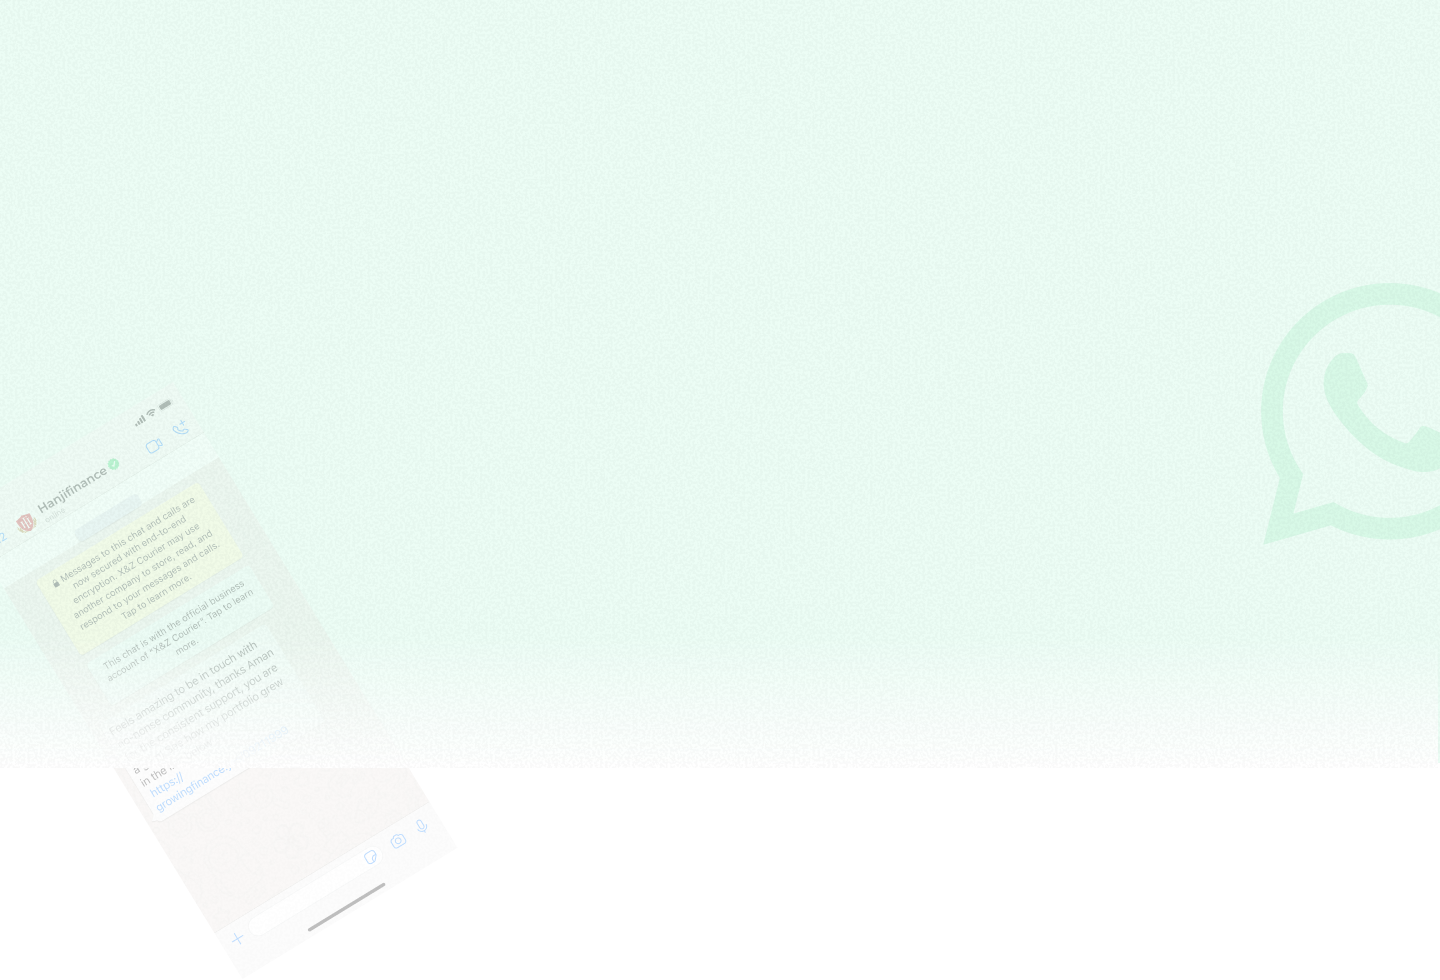
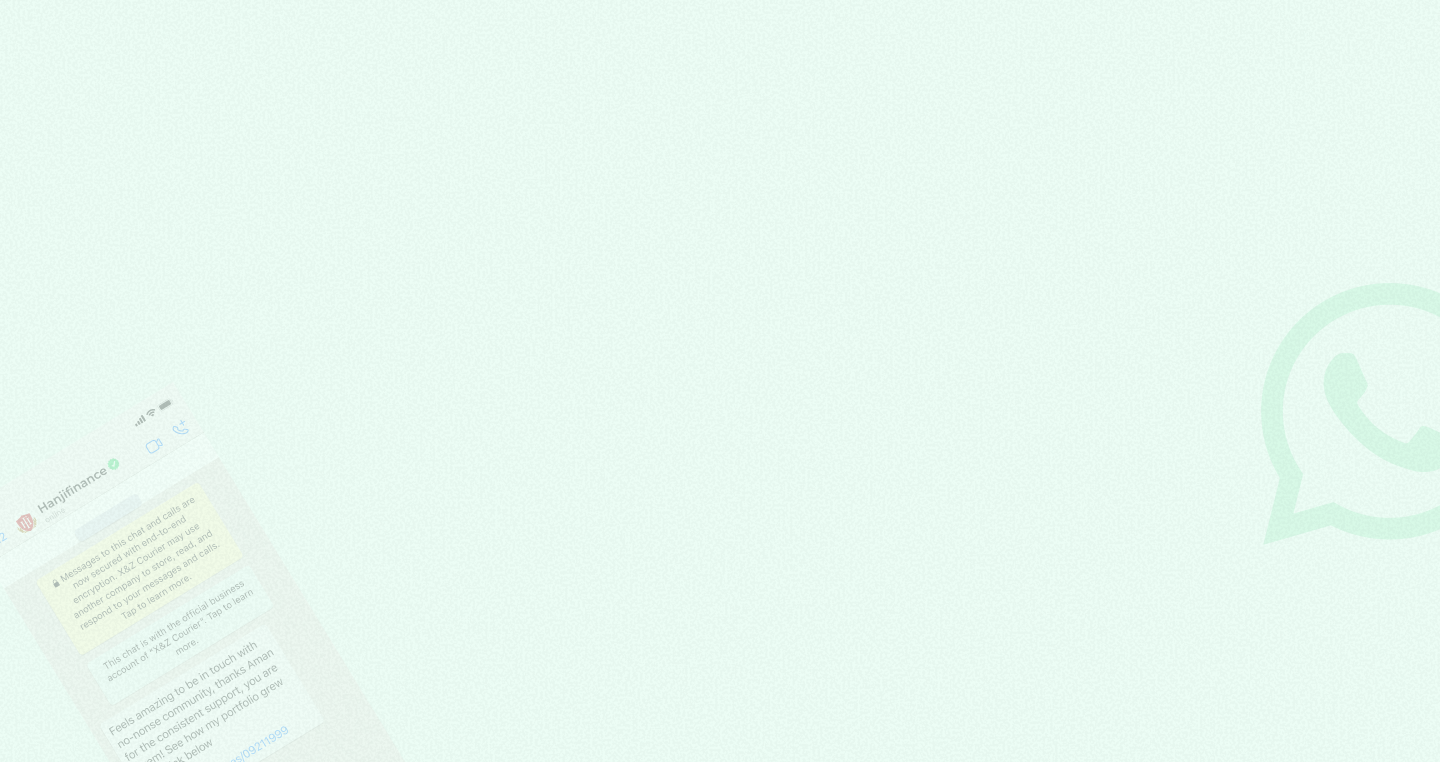
boardroom page hero section copmpleted

diff --git a/src/components/BoardroomBanterPage/Hero/BoardRoomHero.tsx b/src/components/BoardroomBanterPage/Hero/BoardRoomHero.tsx
@@ -1,8 +1,9 @@
-import { IMAGES } from "../../../assets";
+import { ICONS, IMAGES } from "../../../assets";
 import { FaPhoneAlt, FaRegUser } from "react-icons/fa";
 import Container from "../../Reusable/Container/Container";
 import HeroHeading from "../../Reusable/HeroHeading/HeroHeading";
 import ReusableHeroCards from "../../Reusable/ReusableHeroCards/ReusableHeroCards";
+import Button from "../../Reusable/Button/Button";
 
 const BoardroomHero = () => {
   const heroDetails = [
@@ -29,23 +30,43 @@ const BoardroomHero = () => {
   ];
 
   return (
-    <div className="relative">
+    <div className="relative h-fit">
       <img
         src={IMAGES.boardroomHeroBgImg}
         alt="BoardroomHero-image"
-        className="absolute -top-30 lg:-top-20 xl:-top-15 left-0 w-full h-full object-cover z-0"
+        className="absolute top-0 left-0 w-full h-full object-cover -z-500"
       />
       {/* <img
         src={IMAGES.BoardroomHeroMobileBg}
         alt="BoardroomHero-image"
         className="absolute xl:hidden left-0 w-full h-fit object-fill -z-100"
       /> */}
-      <div className="relative z-10 py-[68px]">
+      <div className="relative z-10 pt-[68px]">
         <Container>
           <HeroHeading lines={["Boardroom Banter"]} />
           <ReusableHeroCards details={heroDetails} bg="bg-surface-10" />
-          <p className="flex flex-row justify-center items-center text-[32px] mt-24">A private finance circle by <span> Hanjifinance </span> <FaRegUser/></p>
+          <div className="mt-24 mb-28 flex flex-col gap-8 justify-center items-center">
+            <p className="flex flex-row justify-center items-center text-[32px] tracking-[-0.6] font-medium text-neutral-30">
+            A private finance circle by{" "}
+            <span className="pl-3 pr-1 text-success-15 font-bold leading-9">
+              {" "}
+              Hanjifinance{" "}
+            </span>{" "}
+            <img
+              src={ICONS.verified}
+              alt="hanjiFinance"
+              className="size-6 mt-2"
+            />
+          </p>
+          <Button
+            variant="primary"
+            label="Book 1 on 1 call with me"
+            classNames="w-full sm:w-fit px-8 py-4"
+          />
+          </div>
+          
         </Container>
+        <div className="bg-gradient-hero h-[100px] w-full"></div>
       </div>
     </div>
   );

diff --git a/src/assets/index.ts b/src/assets/index.ts
@@ -23,6 +23,7 @@ import volumeCross from "./icons/volume-cross.svg"
 import money from "./icons/money.svg"
 import peopleNearby from "./icons/people-nearby.svg"
 import hamburgerMenu from "./icons/hamburger-menu.svg"
+import verified from "../assets/icons/verified.svg"
 
 
 
@@ -74,4 +75,5 @@ export const ICONS = {
   money,
   peopleNearby,
   hamburgerMenu,
+  verified
 };
